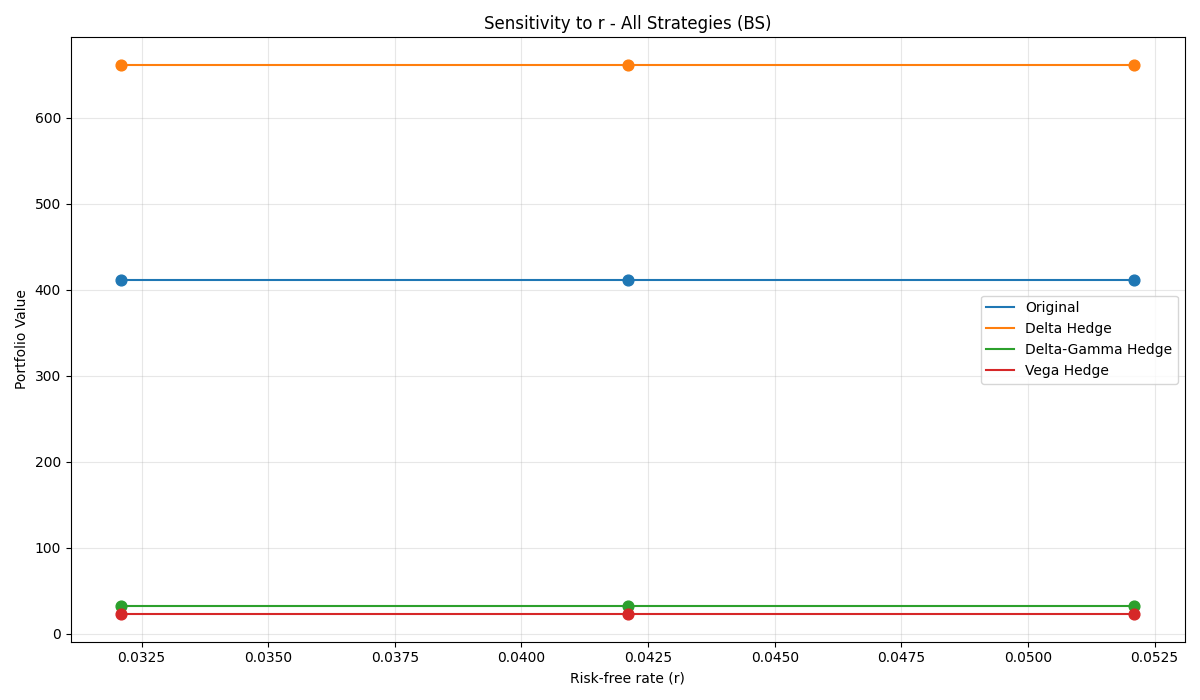
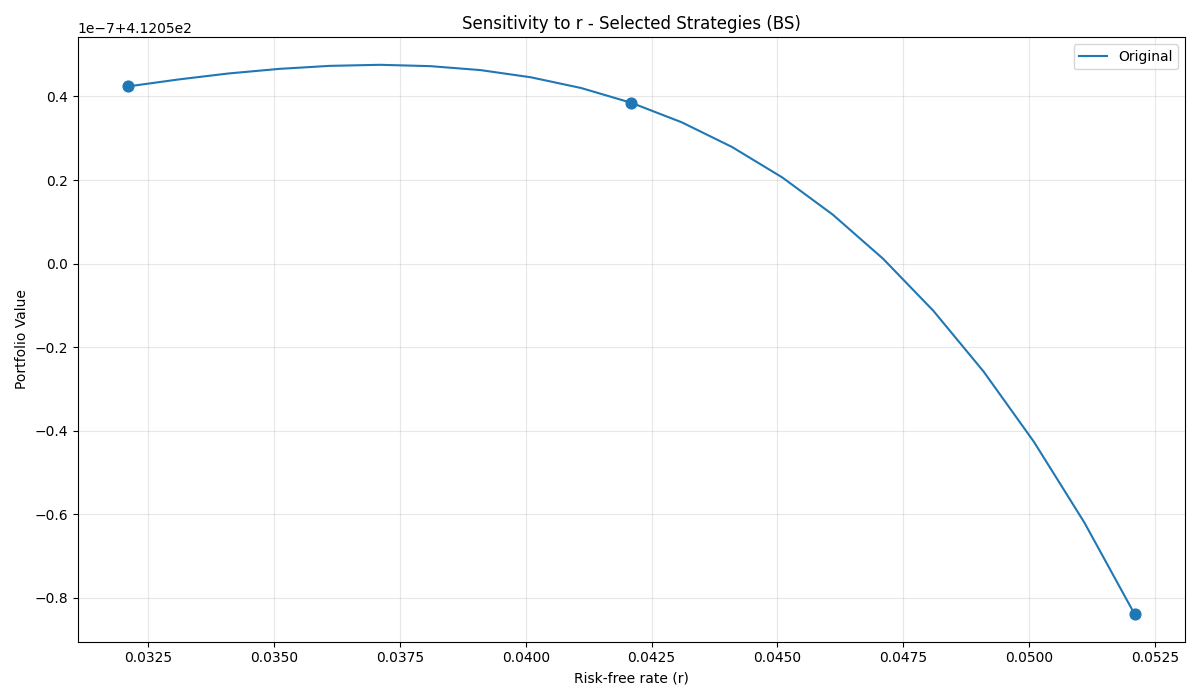
test

diff --git a/app.py b/app.py
@@ -897,15 +897,14 @@ if menu == "Hedging Strategy":
 
 if menu == "Sensitivity Analysis":
     st.write("Sensitivity Analysis selected.")
-    # Select model for sensitivity analysis
+    # Select model for hedging strategy
     model = st.selectbox("Select Model:", ["Black-Scholes", "Binomial", "Monte Carlo"], index=0)
     # Select hedging strategy
     hedge_strategy = st.selectbox("Select Hedging Strategy:", ["Delta Hedge", "Delta+Gamma Hedge", "Vega Hedge"], index=0)
     # Select percentage of coverage for hedging
-    coverage_percentage = st.number_input("Hedging Coverage (%):", value=70, min_value=0, max_value=100, step=1, help="Percentage of the portfolio to be hedged.")
-    # Select VaR horizon
+    coverage_percentage = st.number_input("Hedging (%):", value=70, min_value=0, max_value=100, step=1, help="Percentage of the portfolio to be hedged.")
+    # Select VaR horizon after selecting hedge
     horizon = st.number_input("Horizon (e.g., enter 10/252 for a 10-day horizon)", value=0.0849, min_value=0.01, format="%.4f", help="Horizon for VaR calculation.")
-    # Select number of options in portfolio
     num_options = st.number_input("Number of options in portfolio", min_value=1, max_value=10, value=4, step=1, help="Number of different options in the portfolio.")
     portfolio = []
     default_values = [
@@ -914,6 +913,8 @@ if menu == "Sensitivity Analysis":
         {'type': 'call', 'style': 'european', 'S': 5912.17, 'K': 5920, 'T': 0.0849, 'r': 0.0421, 'qty': 10, 'market_price': 103.66},
         {'type': 'put', 'style': 'european', 'S': 5912.17, 'K': 5900, 'T': 0.0849, 'r': 0.0421, 'qty': 10, 'market_price': 102.92}
     ]
+    
+    # Ensure portfolio options are customizable
     for i in range(num_options):
         st.subheader(f"Option {i+1}")
         option_type = st.selectbox(f"Option type for Option {i+1}", ["call", "put"], index=["call", "put"].index(default_values[i]['type']), key=f"option_type_{i}", help="Call or put option.")
@@ -925,14 +926,33 @@ if menu == "Sensitivity Analysis":
         qty = st.number_input(f"Quantity for Option {i+1}", value=default_values[i]['qty'], step=1, help="Quantity of options in the portfolio.", key=f"qty_{i}")
         market_price = st.number_input(f"Market price for Option {i+1}", value=default_values[i]['market_price'], help="Observed market price of the option.", key=f"market_price_{i}")
         portfolio.append({'type': option_type, 'style': option_style, 'S': S, 'K': K, 'T': T, 'r': r, 'qty': qty, 'market_price': market_price})
-    if st.button("Run Sensitivity Analysis", key="bs_sensitivity_btn"):
-        with st.spinner("Running sensitivity analysis..."):
+    
+    if st.button("Calculate Hedging Strategy", key="hedging_strategy_btn"):
+        with st.spinner("Calculating hedging strategy and sensitivity analysis..."):
             try:
-                # Run sensitivity analysis
-                bsa.run_sensitivity_analysis_bs(portfolio, vis_dir="visualizations")
-                st.success("Sensitivity analysis completed. Check the visualizations directory for results.")
+                if model == "Black-Scholes":
+                    # Run sensitivity analysis for Black-Scholes
+                    bsa.run_sensitivity_analysis_bs(portfolio, bsa.VIS_DIR, hedge_strategy)
+                    st.success("Sensitivity analysis completed. Check the visualizations directory for results.")
+                    # Display graphs and numerical tables
+                    st.image(os.path.join(bsa.VIS_DIR, 'sensitivity_spot_all_bs.png'))
+                    st.image(os.path.join(bsa.VIS_DIR, 'sensitivity_r_all_bs.png'))
+                    st.image(os.path.join(bsa.VIS_DIR, 'sensitivity_vol_all_bs.png'))
+                    st.write("Numerical tables:")
+                    st.write(pd.read_csv(os.path.join(bsa.VIS_DIR, 'sensitivity_spot_all_bs.csv')))
+                    st.write(pd.read_csv(os.path.join(bsa.VIS_DIR, 'sensitivity_r_all_bs.csv')))
+                    st.write(pd.read_csv(os.path.join(bsa.VIS_DIR, 'sensitivity_vol_all_bs.csv')))
+                elif model == "Monte Carlo":
+                    st.write("Monte Carlo model selected.")
+                    n_sim_main = st.number_input("Number of simulations for P&L and VaR/ES", value=50000, min_value=1000, step=1000, help="Number of scenarios for P&L and VaR/ES simulation.")
+                    n_sim_greeks = st.number_input("Number of simulations for Greeks", value=100000, min_value=1000, step=1000, help="Number of scenarios for Greeks calculation.")
+                    st.write("Note: The following input uses the Longstaff-Schwartz method.")
+                    N_steps = st.number_input("Number of steps (For short maturities, use fewer steps; for long maturities, use more steps)", value=100, min_value=1, step=1, help="Discretization steps for Monte Carlo model.")
+                elif model == "Binomial":
+                    st.write("Binomial model selected.")
+                    N_steps_binomial = st.number_input("Number of steps for Binomial tree", value=100, min_value=1, step=1, help="Discretization steps for Binomial model.")
             except Exception as e:
-                st.error(f"Error in sensitivity analysis: {e}")
+                st.error(f"Error in calculation: {e}")
 
 if menu == "Introduction":
     st.markdown('<div class="title-conference">Option Pricing & Portfolio Risk App</div>', unsafe_allow_html=True)
@@ -1008,3 +1028,4 @@ if menu == "Single Option Analysis":
                 st.error(f"Error in calculation: {e}")
 
 st.markdown('<div class="footer-conference">Developed by Marcos Heredia Pimienta, Quantitative Risk Analyst</div>', unsafe_allow_html=True)
+

diff --git a/option_pricing/black_scholes_model/bs_portfolio_analysis.py b/option_pricing/black_scholes_model/bs_portfolio_analysis.py
@@ -152,15 +152,72 @@ def var_es(pnl, alpha=0.01):
     es = -pnl_sorted[pnl_sorted <= -var].mean()
     return var, es
 
-def run_sensitivity_analysis_bs(portfolio, vis_dir):
+def run_sensitivity_analysis_bs(portfolio, vis_dir, selected_strategy):
+    if not portfolio:
+        raise ValueError("Portfolio is empty. Please provide a valid portfolio.")
+    # Define portfolio_gamma_hedged and portfolio_vega_hedged
+    greeks_total = portfolio_greeks(portfolio)
+    gamma_cartera = greeks_total['gamma']
+    delta_cartera = greeks_total['delta']
+    vega_total = greeks_total['vega']
+    # Delta-Gamma Hedge
+    hedge_opt_gamma = {
+        'type': 'call',
+        'style': 'european',
+        'S': portfolio[0]['S'],
+        'K': portfolio[0]['K'],
+        'T': portfolio[0]['T'],
+        'r': portfolio[0]['r'],
+        'qty': 0,
+        'market_price': portfolio[0]['market_price'],
+    }
+    greeks_hedge_gamma = option_greeks(hedge_opt_gamma)
+    gamma_hedge = greeks_hedge_gamma['gamma']
+    gamma_hedge_fraction = 0.7
+    qty_gamma_hedge = -gamma_cartera * gamma_hedge_fraction / gamma_hedge if gamma_hedge != 0 else 0
+    hedge_opt_gamma['qty'] = qty_gamma_hedge
+    portfolio_gamma_hedged = portfolio + [hedge_opt_gamma]
+    greeks_total_gamma = portfolio_greeks(portfolio_gamma_hedged)
+    delta_gamma_hedged = greeks_total_gamma['delta']
+    # Adjust delta hedge for gamma hedged portfolio
+    hedge_opt_delta = {
+        'type': 'call',
+        'style': 'european',
+        'S': portfolio[0]['S'],
+        'K': portfolio[0]['K'],
+        'T': portfolio[0]['T'],
+        'r': portfolio[0]['r'],
+        'qty': -delta_gamma_hedged,
+        'market_price': portfolio[0]['market_price'],
+    }
+    portfolio_gamma_delta_hedged = portfolio_gamma_hedged + [hedge_opt_delta]
+    # Vega Hedge
+    hedge_opt_vega = {
+        'type': 'call',
+        'style': 'european',
+        'S': portfolio[0]['S'],
+        'K': portfolio[0]['K'],
+        'T': portfolio[0]['T'],
+        'r': portfolio[0]['r'],
+        'qty': 0,
+        'market_price': portfolio[0]['market_price'],
+    }
+    greeks_hedge_vega = option_greeks(hedge_opt_vega)
+    vega_hedge = greeks_hedge_vega['vega']
+    vega_hedge_fraction = 0.7
+    qty_vega_hedge = -vega_total * vega_hedge_fraction / vega_hedge if vega_hedge != 0 else 0
+    hedge_opt_vega['qty'] = qty_vega_hedge
+    portfolio_vega_hedged = portfolio + [hedge_opt_vega]
     hedge_strategies = [
         ('Original', portfolio),
         ('Delta Hedge', portfolio + [{
-            'type': 'call', 'S': portfolio[0]['S'], 'K': portfolio[0]['K'], 'T': portfolio[0]['T'], 'r': portfolio[0]['r'], 'qty': -portfolio_greeks(portfolio)['delta'], 'market_price': portfolio[0]['market_price']
+            'type': 'call', 'S': portfolio[0]['S'], 'K': portfolio[0]['K'], 'T': portfolio[0]['T'], 'r': portfolio[0]['r'], 'qty': -delta_cartera, 'market_price': portfolio[0]['market_price']
         }]),
-        ('Delta-Gamma Hedge', portfolio_gamma_hedged),
+        ('Delta-Gamma Hedge', portfolio_gamma_delta_hedged),
         ('Vega Hedge', portfolio_vega_hedged),
     ]
+    # Filter strategies based on selection
+    hedge_strategies = [s for s in hedge_strategies if s[0] == 'Original' or s[0] == selected_strategy]
     # 1. Sensibilidad Spot (±10%)
     spot_base = portfolio[0]['S']
     spot_range = np.linspace(spot_base*0.9, spot_base*1.1, 21)
@@ -199,7 +256,7 @@ def run_sensitivity_analysis_bs(portfolio, vis_dir):
     df_spot.to_csv(os.path.join(vis_dir, 'sensitivity_spot_all_bs.csv'), index=False)
     plt.xlabel('Spot')
     plt.ylabel('Portfolio Value')
-    plt.title('Sensitivity to Spot - All Strategies (BS)')
+    plt.title('Sensitivity to Spot - Selected Strategies (BS)')
     plt.legend()
     plt.grid(True, alpha=0.3)
     plt.tight_layout()
@@ -243,7 +300,7 @@ def run_sensitivity_analysis_bs(portfolio, vis_dir):
     df_r.to_csv(os.path.join(vis_dir, 'sensitivity_r_all_bs.csv'), index=False)
     plt.xlabel('Risk-free rate (r)')
     plt.ylabel('Portfolio Value')
-    plt.title('Sensitivity to r - All Strategies (BS)')
+    plt.title('Sensitivity to r - Selected Strategies (BS)')
     plt.legend()
     plt.grid(True, alpha=0.3)
     plt.tight_layout()
@@ -294,7 +351,7 @@ def run_sensitivity_analysis_bs(portfolio, vis_dir):
     df_vol.to_csv(os.path.join(vis_dir, 'sensitivity_vol_all_bs.csv'), index=False)
     plt.xlabel('Volatility multiplier')
     plt.ylabel('Portfolio Value')
-    plt.title('Sensitivity to Volatility - All Strategies (BS)')
+    plt.title('Sensitivity to Volatility - Selected Strategies (BS)')
     plt.legend()
     plt.grid(True, alpha=0.3)
     plt.tight_layout()
@@ -552,4 +609,4 @@ if __name__ == "__main__":
     print("SENSITIVITY ANALYSIS (BLACK-SCHOLES) - PORTFOLIO VALUE")
     print("="*60)
 
-    run_sensitivity_analysis_bs(portfolio, VIS_DIR) 
+    run_sensitivity_analysis_bs(portfolio, VIS_DIR, 'Delta Hedge') 
